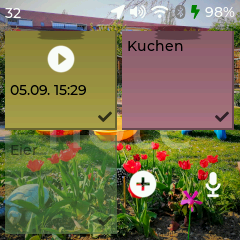
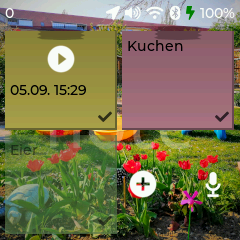
minor fix

Changed region(s): [[0.4375, 0.0, 0.9917, 0.0875], [0.0, 0.0292, 0.0875, 0.0875]]

diff --git a/src/app/voicerec/voicerec_app_main.cpp b/src/app/voicerec/voicerec_app_main.cpp
@@ -190,7 +190,7 @@ static void voicerec_app_main_lv_task( lv_task_t * task ) {
             strftime( name, sizeof( name ), "%d.%m. %H:%M", &info );
 
             note_tile_add_audio_note( voicerec_recorder_get_filename(), name );
-            mainbar_jump_to_tilenumber( note_tile_get_tile_num(), LV_ANIM_OFF, true );
+            mainbar_jump_to_tilenumber( note_tile_get_tile_num(), LV_ANIM_OFF, false );
         }
         voicerec_from_note = false;
     }
